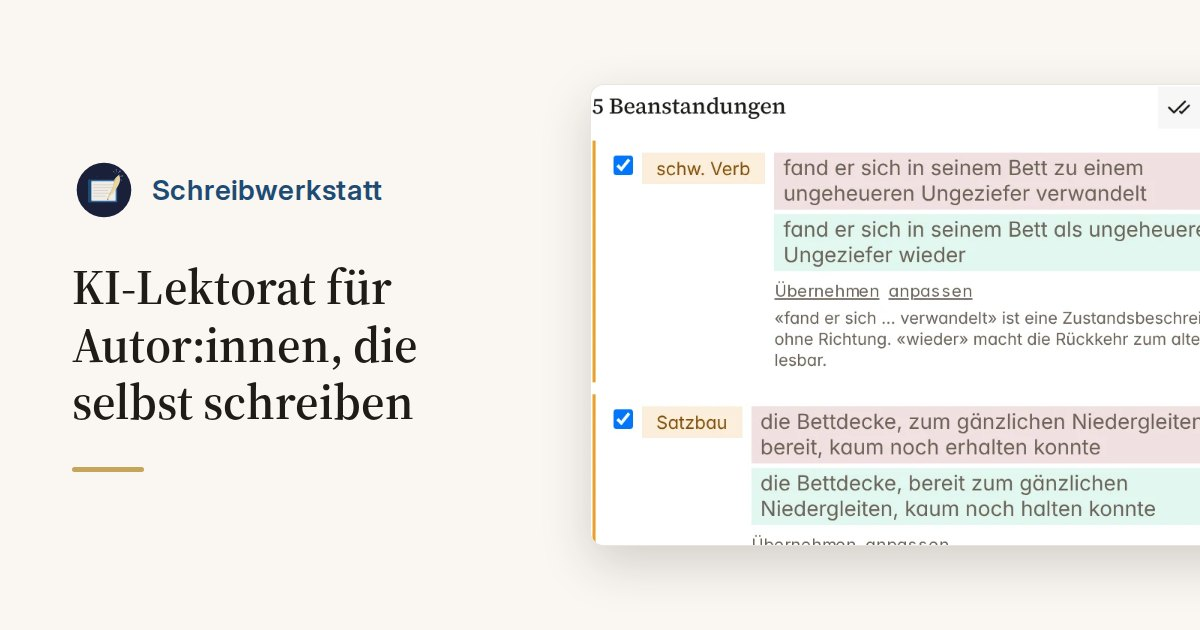
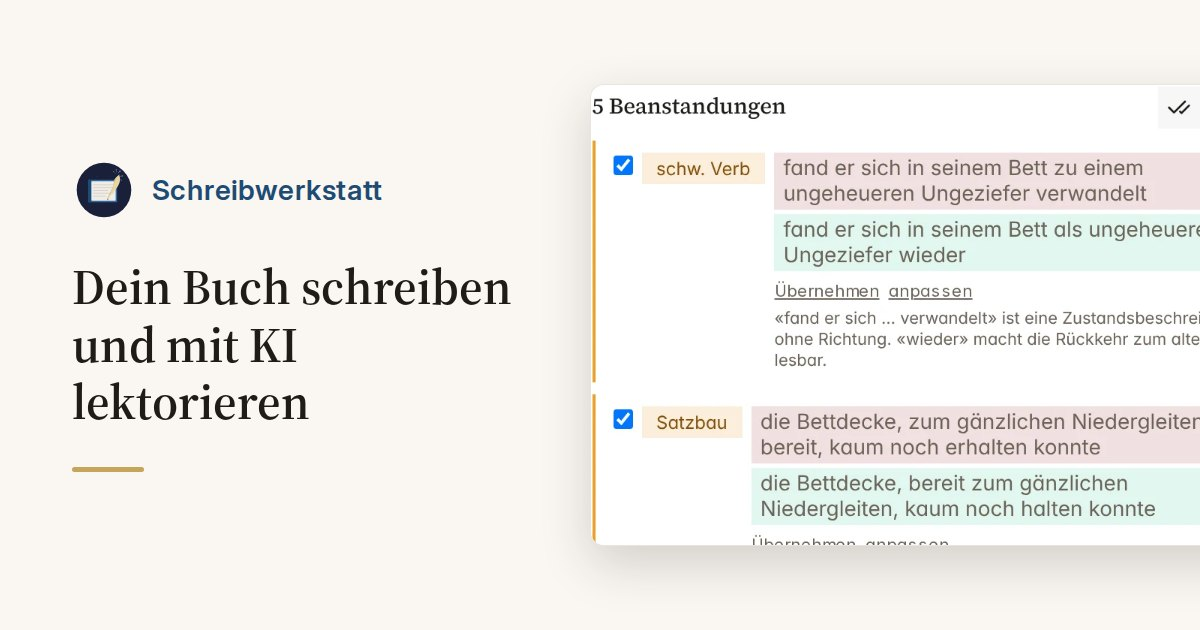
release: v6.9.4
Neue öffentliche Seite /schreiben mit den drei Editoren (Notebook, Fokus, Bucheditor) samt Screenshots und OG-Bildern; Landing stellt Schreiben und Lektorat gleichwertig vor (neue Editor-Kachel, Kacheln umnummeriert, Footer-Link).

Changed region(s): [[0.0617, 0.4222, 0.4317, 0.4825], [0.0617, 0.6032, 0.3392, 0.6635], [0.0617, 0.5127, 0.3392, 0.573]]

diff --git a/scripts/landing-shots/shots.js b/scripts/landing-shots/shots.js
@@ -173,6 +173,68 @@ async function captureAll({ base, seed, outDir }) {
   });
   await page.waitForTimeout(1500);
 
+  // ── 1a. Notebook-Editor: ein Abschnitt im Edit-Modus ──────────────────────
+  // Werkzeugleiste oben links, darunter der Text — das Bild zur Themenseite
+  // /schreiben. Das Blatt steht sonst mittig in der breiten Spalte, weit rechts
+  // der Leiste: für die Aufnahme linksbündig unter die Leiste und auf
+  // Kachelbreite. Abgebrochen wird ohne Speichern.
+  await page.evaluate(() => window.__app.startEdit());
+  await page.waitForSelector('.page-editor-toolbar', { state: 'visible', timeout: 20000 });
+  {
+    const css = await page.addStyleTag({ content: '.page-content-view--editing { max-width: 444px !important; margin-inline: 0 !important; }' });
+    await page.waitForTimeout(1200);
+    shots.push(await _shot(page, outDir, 'notebook', '.page-editor-toolbar', { rect: { x: -8, y: -8 } }));
+    await css.evaluate(n => n.remove());
+  }
+
+  // ── 1b. Focus-Editor: Vollbild-Schreibmodus ───────────────────────────────
+  // Der Absatz, an dem geschrieben wird, steht hell, der Rest gedimmt. Für die
+  // Aufnahme rückt die Textspalte an den linken Rand und auf Kachelbreite. Am
+  // Ende des ersten Absatzes wird ein Satz getippt (setzt den aktiven Absatz)
+  // und nach der Aufnahme per Undo wieder entfernt — der Text der folgenden
+  // Aufnahmen (Lektorat, Chat) bleibt unverändert.
+  await page.evaluate(() => window.__app.enterFocusMode());
+  await page.waitForSelector('.focus-editor.is-active .focus-editor__content p', { state: 'visible', timeout: 20000 });
+  {
+    const css = await page.addStyleTag({ content: `
+      .focus-editor.is-active .focus-editor__content { padding-left: 24px !important; padding-right: calc(100% - 460px) !important; }
+    ` });
+    await page.waitForTimeout(800);
+    const before = await page.locator('.focus-editor.is-active .focus-editor__content').evaluate(n => n.textContent);
+    await page.evaluate(() => {
+      const p = document.querySelector('.focus-editor.is-active .focus-editor__content p');
+      const r = document.createRange();
+      r.selectNodeContents(p);
+      r.collapse(false);
+      const sel = window.getSelection();
+      sel.removeAllRanges();
+      sel.addRange(r);
+    });
+    await page.keyboard.type(' Draussen regnete es.', { delay: 20 });
+    await page.waitForTimeout(1500);
+    // Ausschnitt um die Schreibzeile: oben die letzten Zeilen des aktiven
+    // Absatzes (hell), darunter der nächste (gedimmt). Wo die Zeile steht,
+    // bestimmt der Typewriter-Scroll — darum gemessen, nicht fest.
+    const caretY = await page.evaluate(() => {
+      const r = window.getSelection().getRangeAt(0).getBoundingClientRect();
+      return Math.round(r.bottom - document.querySelector('.focus-editor.is-active').getBoundingClientRect().top);
+    });
+    shots.push(await _shot(page, outDir, 'fokus', '.focus-editor.is-active', { rect: { x: 0, y: caretY - 156 } }));
+    for (let i = 0; i < 30; i++) {
+      const now = await page.locator('.focus-editor.is-active .focus-editor__content').evaluate(n => n.textContent);
+      if (now === before) break;
+      await page.keyboard.press('Control+z');
+      await page.waitForTimeout(150);
+    }
+    const after = await page.locator('.focus-editor.is-active .focus-editor__content').evaluate(n => n.textContent);
+    if (after !== before) throw new Error('Shot fokus: Undo hat den getippten Satz nicht entfernt');
+    await css.evaluate(n => n.remove());
+  }
+  await page.evaluate(() => window.__app.exitFocusMode());
+  await page.waitForTimeout(1200);
+  await page.evaluate(() => window.__app.cancelEdit());
+  await page.waitForTimeout(1200);
+
   // ── 2a. Kommentare: die Leiste des Autors neben dem Text ──────────────────
   // Notebook-Leseansicht des geteilten Abschnitts: die Leser-Kommentare stehen
   // in der Randleiste rechts (vor dem Lektorat-Lauf — mit offenen Befunden

diff --git a/tests/unit/seo-robots.test.js b/tests/unit/seo-robots.test.js
@@ -135,7 +135,7 @@ test('ohne app.public_url bleibt die Instanz unindexiert — es gibt keine kanon
 
 test('Themenseiten sind indexierbar, kanonisch und stehen in der Sitemap', async () => {
   _setIndexable(true, 'https://app.example.test');
-  for (const urlPath of ['/lektorat', '/testleser', '/funktionen']) {
+  for (const urlPath of ['/schreiben', '/lektorat', '/testleser', '/funktionen']) {
     const res = await _get(urlPath);
     assert.equal(res.status, 200, urlPath);
     assert.doesNotMatch(res.body, /noindex/, `${urlPath} darf kein noindex tragen`);
@@ -143,14 +143,14 @@ test('Themenseiten sind indexierbar, kanonisch und stehen in der Sitemap', async
     assert.match(res.body, /<meta name="description" content="[^"]{60,}">/, `${urlPath} braucht eine Meta-Description`);
   }
   const sitemap = await _get('/sitemap.xml');
-  for (const urlPath of ['/', '/lektorat', '/testleser', '/funktionen', '/datenschutz']) {
+  for (const urlPath of ['/', '/schreiben', '/lektorat', '/testleser', '/funktionen', '/datenschutz']) {
     assert.match(sitemap.body, new RegExp(`<loc>https://app\\.example\\.test${urlPath}</loc>`), urlPath);
   }
 });
 
 test('Themenseiten folgen seo.indexable=false', async () => {
   _setIndexable(false);
-  for (const urlPath of ['/lektorat', '/testleser', '/funktionen']) {
+  for (const urlPath of ['/schreiben', '/lektorat', '/testleser', '/funktionen']) {
     const res = await _get(urlPath);
     assert.match(res.body, /<meta name="robots" content="noindex, nofollow">/, `${urlPath} braucht noindex`);
   }
@@ -188,7 +188,7 @@ test('Sitemap listet beide Sprachfassungen mit vollständigen hreflang-Alternati
   const res = await _get('/sitemap.xml');
   assert.match(res.body, /xmlns:xhtml="http:\/\/www\.w3\.org\/1999\/xhtml"/);
   const blocks = res.body.match(/<url>[\s\S]*?<\/url>/g);
-  assert.equal(blocks.length, 10, '5 Seiten × 2 Sprachen');
+  assert.equal(blocks.length, 12, '6 Seiten × 2 Sprachen');
   for (const b of blocks) {
     assert.equal((b.match(/<xhtml:link /g) || []).length, 3, b);
   }
@@ -215,7 +215,7 @@ test('indexierbare Seiten: Sprache allein aus der URL, Browser-Englisch bekommt 
   // samt anderem canonical, und ein Crawler mit `en` saehe die deutsche
   // Standard-URL als Duplikat der englischen.
   _setIndexable(true, 'https://app.example.test');
-  for (const urlPath of ['/', '/lektorat', '/testleser', '/funktionen', '/datenschutz']) {
+  for (const urlPath of ['/', '/schreiben', '/lektorat', '/testleser', '/funktionen', '/datenschutz']) {
     const res = await _get(urlPath === '/' ? '/landing' : urlPath, { 'accept-language': 'en-US,en;q=0.9' });
     assert.match(res.body, /<html lang="de">/, urlPath);
     assert.match(res.body, new RegExp(`<link rel="canonical" href="https://app\\.example\\.test${urlPath}">`), urlPath);
@@ -240,7 +240,7 @@ test('/privacy (nicht indexierter Alias) folgt weiter dem Browser', async () => 
 test('Vorschaubild: 1200×630-JPEG je Seite und Sprache, Datei vorhanden, Meta vollständig', async () => {
   _setIndexable(true, 'https://app.example.test');
   const { PAGES, LANGS } = require('../../scripts/landing-shots/og-image');
-  const pathOf = { landing: '/landing', lektorat: '/lektorat', testleser: '/testleser', funktionen: '/funktionen' };
+  const pathOf = { landing: '/landing', schreiben: '/schreiben', lektorat: '/lektorat', testleser: '/testleser', funktionen: '/funktionen' };
   assert.deepEqual(Object.keys(PAGES).sort(), Object.keys(pathOf).sort());
   for (const key of Object.keys(PAGES)) {
     for (const lang of LANGS) {

diff --git a/public/landing.html b/public/landing.html
@@ -67,29 +67,37 @@
            zeigen. alt="" haelt sie aus dem Screenreader, sonst laese er jeden
            Kacheltitel zweimal vor. -->
       <ul class="public-feature-grid">
-        <li class="public-feature public-feature--stil">
-          <img class="public-feature-shot" src="/img/landing/lektorat.webp" alt="" width="920" height="614" loading="lazy" decoding="async">
+        <li class="public-feature public-feature--bookeditor">
+          <img class="public-feature-shot" src="/img/landing/notebook.webp" alt="" width="920" height="614" loading="lazy" decoding="async">
           <div class="public-feature-text">
             <h3>{{feat1Title}}</h3>
             <p>{{feat1Desc}}</p>
           </div>
         </li>
-        <li class="public-feature public-feature--figuren">
-          <img class="public-feature-shot" src="/img/landing/ueberblick.webp" alt="" width="920" height="614" loading="lazy" decoding="async">
+        <li class="public-feature public-feature--stil">
+          <img class="public-feature-shot" src="/img/landing/lektorat.webp" alt="" width="920" height="614" loading="lazy" decoding="async">
           <div class="public-feature-text">
             <h3>{{feat2Title}}</h3>
             <p>{{feat2Desc}}</p>
           </div>
         </li>
-        <li class="public-feature public-feature--blog public-feature--wide">
-          <img class="public-feature-shot" src="/img/landing/testleser.webp" alt="" width="920" height="614" loading="lazy" decoding="async">
+        <li class="public-feature public-feature--figuren">
+          <img class="public-feature-shot" src="/img/landing/ueberblick.webp" alt="" width="920" height="614" loading="lazy" decoding="async">
           <div class="public-feature-text">
             <h3>{{feat3Title}}</h3>
             <p>{{feat3Desc}}</p>
           </div>
         </li>
+        <li class="public-feature public-feature--blog">
+          <img class="public-feature-shot" src="/img/landing/testleser.webp" alt="" width="920" height="614" loading="lazy" decoding="async">
+          <div class="public-feature-text">
+            <h3>{{feat4Title}}</h3>
+            <p>{{feat4Desc}}</p>
+          </div>
+        </li>
       </ul>
       <nav class="public-topic-links">
+        <a class="public-inline-link" href="/schreiben">{{featLinkSchreiben}}</a>
         <a class="public-inline-link" href="/lektorat">{{featLinkLektorat}}</a>
         <a class="public-inline-link" href="/testleser">{{featLinkTestleser}}</a>
         <a class="public-inline-link" href="/funktionen">{{allFeaturesLink}}</a>

diff --git a/public/css/landing.css b/public/css/landing.css
@@ -184,24 +184,6 @@ html, body {
 
 /* Neun Kacheln auf zwei Spalten: die neunte bleibt allein. Sie spannt
    deshalb die Zeile und stellt den Screenshot neben den Text. */
-.public-feature--wide {
-  grid-column: 1 / -1;
-  flex-direction: row;
-  align-items: flex-start;
-  gap: var(--space-lg);
-}
-
-.public-feature--wide .public-feature-shot {
-  width: 460px;
-  flex: none;
-  margin-bottom: 0;
-}
-
-.public-feature--wide .public-feature-text {
-  flex: 1;
-  min-width: 0;
-}
-
 .public-feature h3 {
   margin: 0;
   font-size: var(--font-size-md);
@@ -215,6 +197,7 @@ html, body {
   line-height: 1.55;
 }
 
+.public-feature--bookeditor   { --card-accent: var(--card-accent-bookeditor); }
 .public-feature--stil         { --card-accent: var(--card-accent-stil); }
 .public-feature--figuren      { --card-accent: var(--card-accent-figuren); }
 .public-feature--blog         { --card-accent: var(--card-accent-blog); }
@@ -492,9 +475,6 @@ html, body {
 
 @media (max-width: 720px) {
   .public-feature-grid { grid-template-columns: 1fr; }
-  /* Die breite Kachel legt sich auf schmalen Schirmen wieder unter den Text. */
-  .public-feature--wide { flex-direction: column; }
-  .public-feature--wide .public-feature-shot { width: 100%; margin-bottom: var(--space-sm); }
 }
 
 @media (max-width: 480px) {

diff --git a/routes/public-pages.js b/routes/public-pages.js
@@ -1,5 +1,6 @@
 'use strict';
 // Oeffentliche Inhaltsseiten fuer Erstbesucher (vor dem Auth-Guard gemountet):
+//   GET /schreiben           — Themenseite Schreiben (die drei Editoren)
 //   GET /lektorat            — Themenseite KI-Lektorat
 //   GET /testleser           — Themenseite Testleser-Feedback
 //   GET /funktionen          — Funktionsuebersicht (routes/public-features.js)
@@ -22,6 +23,7 @@ const router = express.Router();
 // (pre-auth frei, erzeugt von `npm run shots:landing`), `accent` =
 // Kartenfarbe der App fuer Ueberschriften (wie /funktionen).
 const TOPICS = {
+  schreiben: { accent: 'bookeditor', imgs: ['notebook', 'fokus', 'schreiben'] },
   lektorat:  { accent: 'stil',  imgs: ['lektorat-text', 'lektorat', 'bewertung'] },
   testleser: { accent: 'share', imgs: ['teilen', 'testleser', 'kommentare'] },
 };

diff --git a/routes/public.js b/routes/public.js
@@ -85,8 +85,8 @@ function _landingLd({ appName, description, url, lang }) {
 const LANDING_TEXT_KEYS = [
   'heroTitle', 'heroText', 'demoLabel', 'demoNote', 'loginPrompt', 'statusText',
   'principleTitle', 'principleText', 'loginLabel', 'registerLabel',
-  'featuresTitle', 'featLinkLektorat', 'featLinkTestleser',
-  'feat1Title', 'feat1Desc', 'feat2Title', 'feat2Desc', 'feat3Title', 'feat3Desc',
+  'featuresTitle', 'featLinkSchreiben', 'featLinkLektorat', 'featLinkTestleser',
+  'feat1Title', 'feat1Desc', 'feat2Title', 'feat2Desc', 'feat3Title', 'feat3Desc', 'feat4Title', 'feat4Desc',
   'moreTitle', 'allFeaturesLink',
   'more1Title', 'more1Desc', 'more2Title', 'more2Desc', 'more3Title', 'more3Desc',
   'more4Title', 'more4Desc', 'more5Title', 'more5Desc', 'more6Title', 'more6Desc',

diff --git a/scripts/landing-shots/og-image.js b/scripts/landing-shots/og-image.js
@@ -27,6 +27,7 @@ const H = 630;
 // Seite → Screenshot + Titel-Key (der sichtbare Titel der Seite).
 const PAGES = {
   landing:    { shot: 'lektorat',  titleKey: 'landing.heroTitle' },
+  schreiben:  { shot: 'fokus',     titleKey: 'publicPage.schreiben.h1' },
   lektorat:   { shot: 'lektorat',  titleKey: 'publicPage.lektorat.h1' },
   testleser:  { shot: 'testleser', titleKey: 'publicPage.testleser.h1' },
   funktionen: { shot: 'schreiben', titleKey: 'publicFeatures.h1' },

diff --git a/lib/public-render.js b/lib/public-render.js
@@ -218,6 +218,7 @@ function publicHeaderHtml({ lang, h1, intro, home = false }) {
 // Sprachumschalter kommt aus langSwitchVars.
 const FOOTER_LINKS = [
   { path: '/', key: 'publicPage.backToLanding' },
+  { path: '/schreiben', key: 'landing.featLinkSchreiben' },
   { path: '/lektorat', key: 'landing.featLinkLektorat' },
   { path: '/testleser', key: 'landing.featLinkTestleser' },
   { path: '/funktionen', key: 'landing.allFeaturesLink' },

diff --git a/public/sw-manifest.js b/public/sw-manifest.js
@@ -5,7 +5,7 @@
 // __SHELL_BUILD: content hash over all listed assets → drives SHELL_CACHE.
 // __SHELL_MANIFEST: the coherent set precached atomically at SW install.
 // __VENDOR_SET: current vendor/ + fonts/ files — VENDOR_CACHE prune list.
-self.__SHELL_BUILD = "493be5ce605b760b";
+self.__SHELL_BUILD = "8081759a8f1e71bd";
 self.__SHELL_MANIFEST = [
   "/css/admin/admin-backup.css",
   "/css/admin/admin-home.css",

diff --git a/server.js b/server.js
@@ -207,7 +207,7 @@ app.use(authRouter);
 // und LOCAL_DEV_MODE laufen ueber `next()` weiter — Guard + staticServe
 // liefern dann die SPA-Shell.
 app.use(require('./routes/public'));
-// Themenseiten (/lektorat, /testleser) —
+// Themenseiten (/schreiben, /lektorat, /testleser) —
 // oeffentliche, indexierbare Inhaltsseiten fuer Erstbesucher.
 app.use(require('./routes/public-pages'));
 

diff --git a/public/css/landing-sections.css b/public/css/landing-sections.css
@@ -36,9 +36,6 @@
   color: var(--color-text);
 }
 
-/* Breite Kachel: Text mittig neben dem Bild statt oben mit Leerraum darunter. */
-.public-landing .public-feature--wide { align-items: center; }
-
 /* Hero: der Markenname klein ueber der Aussage — die h1 traegt, was die App
    tut (Suchmaschinen und Erstbesucher lesen die h1, nicht das Logo). */
 .public-hero-brand {
